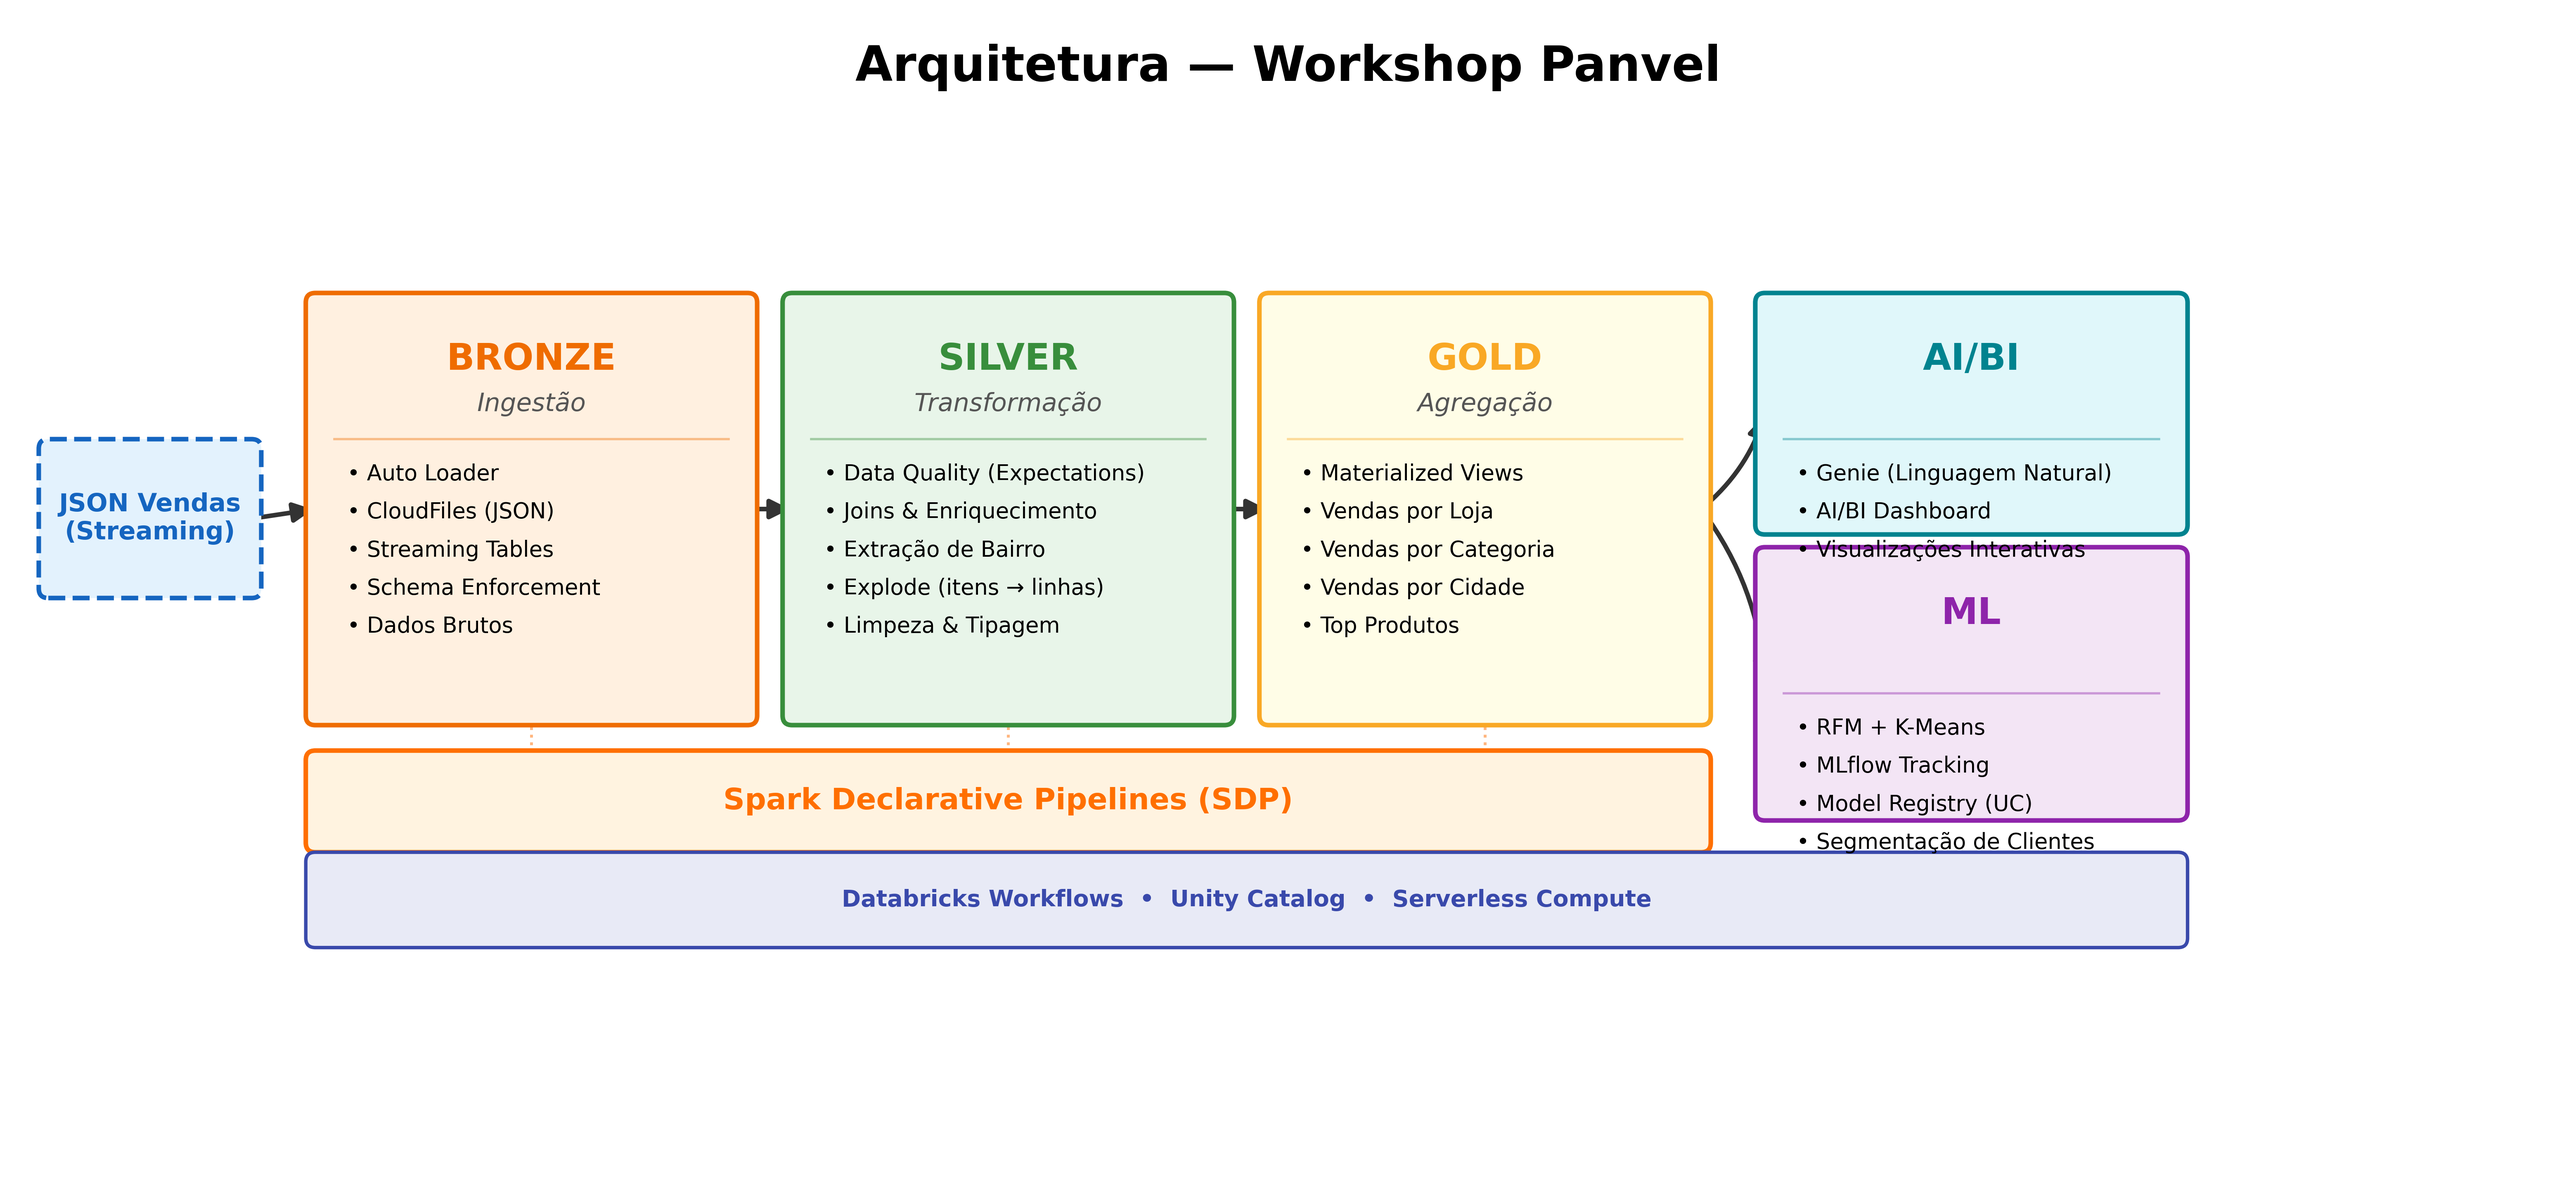
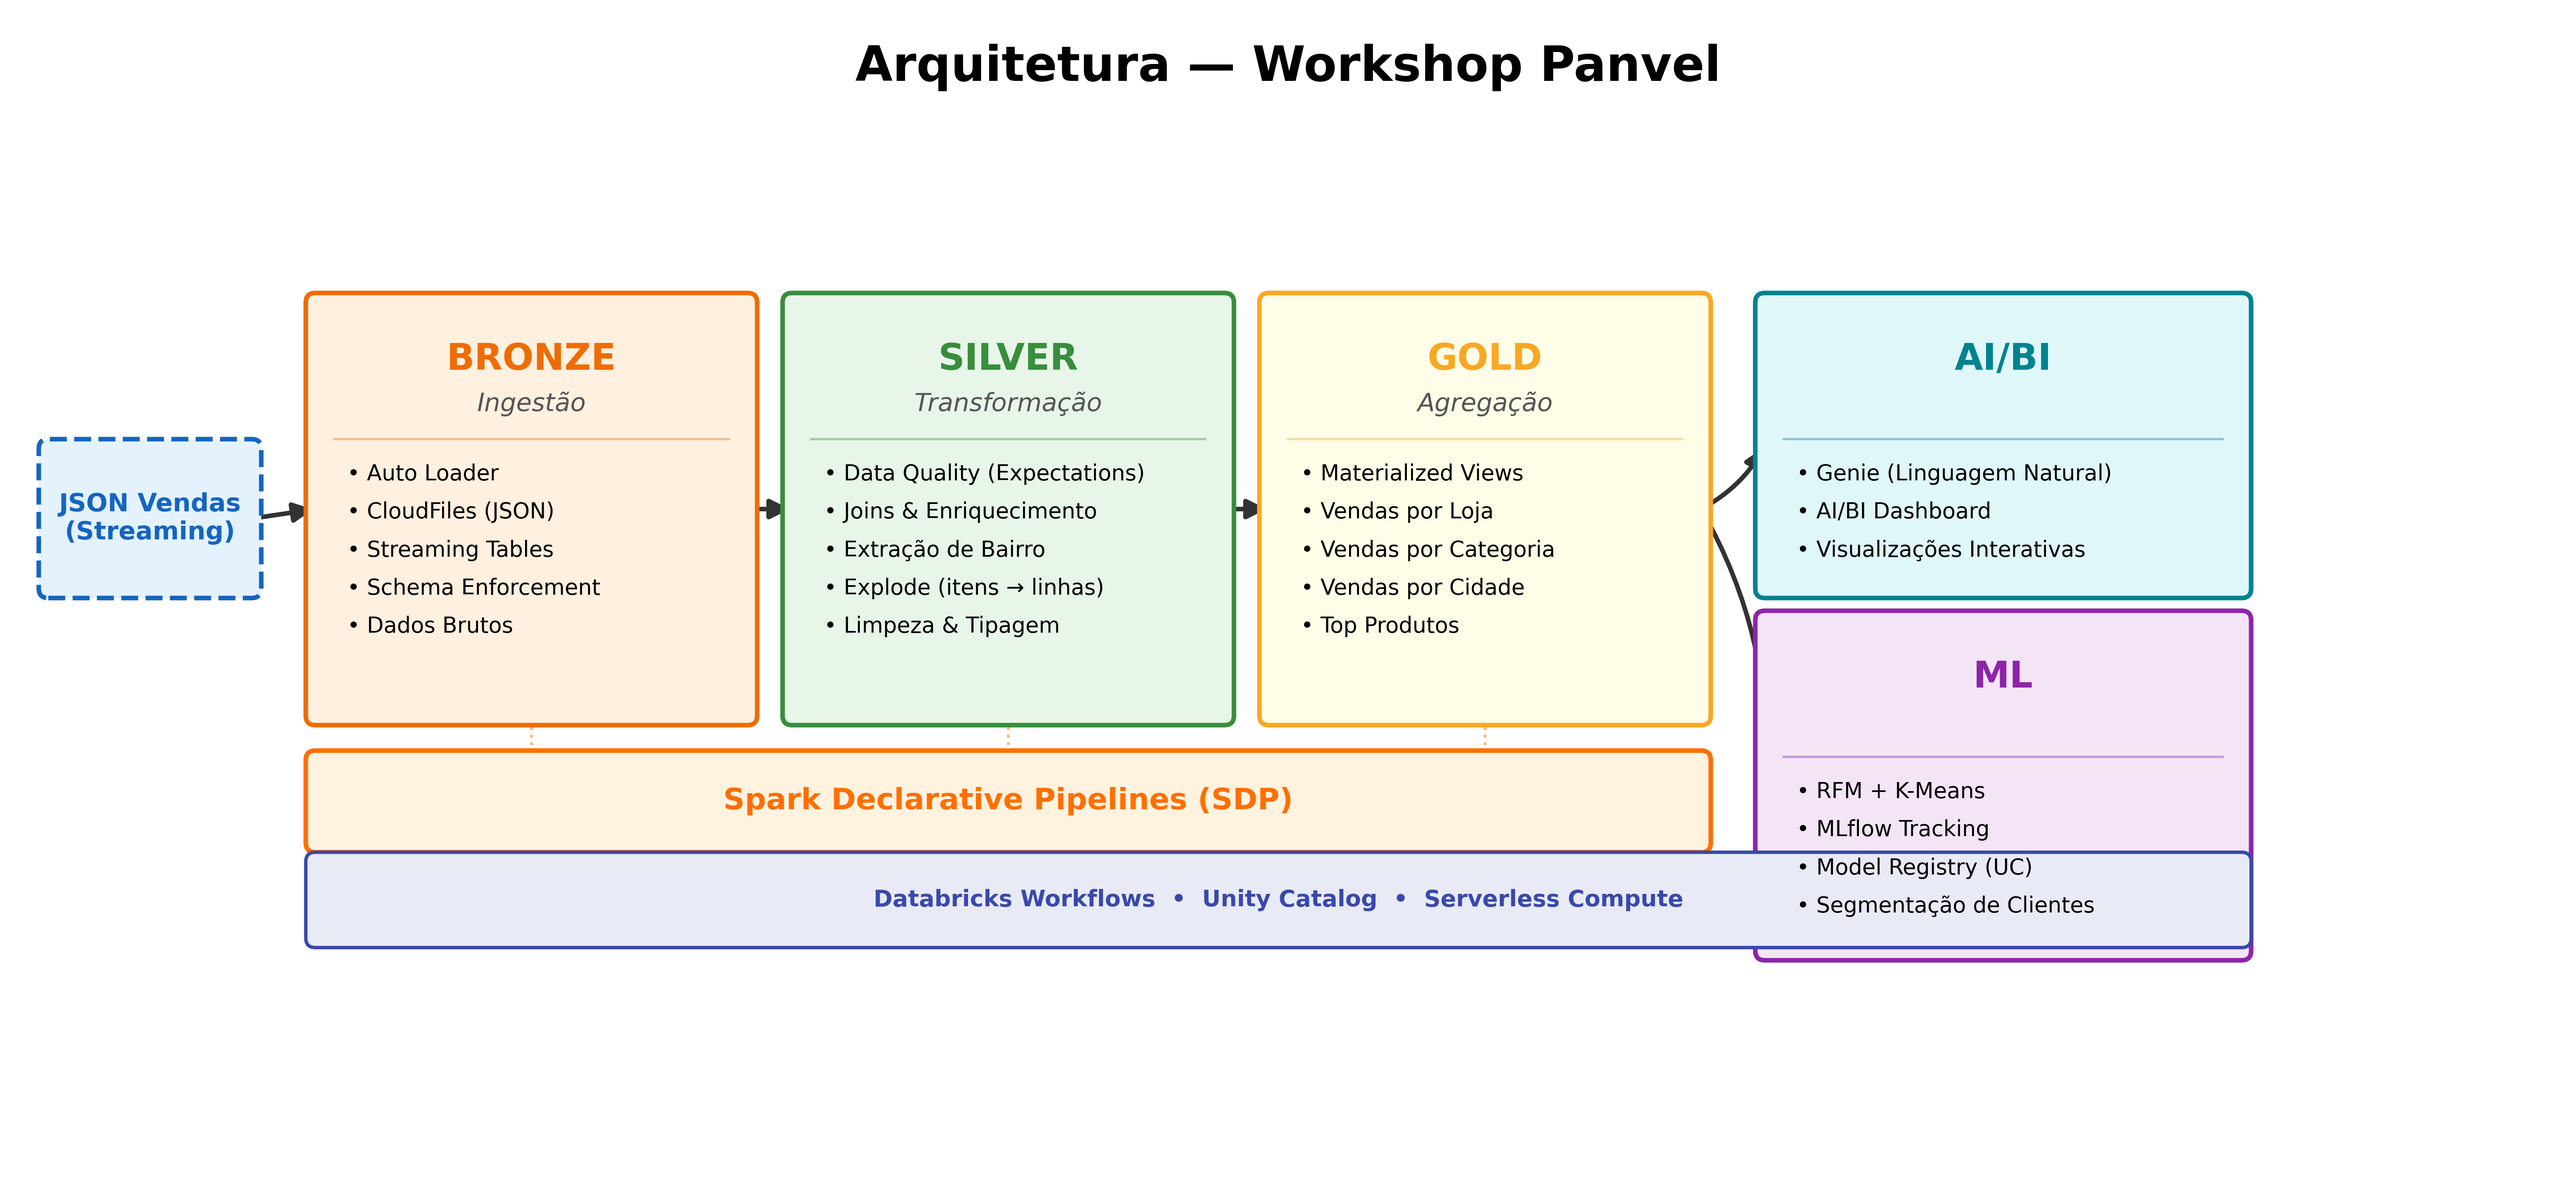
Fix AI/BI and ML boxes: increase height so text fits inside

diff --git a/images/generate_arch.py b/images/generate_arch.py
@@ -99,17 +99,17 @@ def main():
 
     # Fan-out: AI/BI and ML stacked
     fx = pos["GOLD"][0] + pos["GOLD"][2] + 1.0
-    fw = 6.5
+    fw = 7.5
 
     # AI/BI
-    fh1 = 3.5
+    fh1 = 4.5
     fy1 = by + bh - fh1
     draw_stage(ax, fx, fy1, fw, fh1, "AI/BI", None, "#E0F7FA", "#00838F",
                ["Genie (Linguagem Natural)", "AI/BI Dashboard",
                 "Visualizações Interativas"])
 
     # ML
-    fh2 = 4.0
+    fh2 = 5.2
     fy2 = fy1 - 0.5 - fh2
     draw_stage(ax, fx, fy2, fw, fh2, "ML", None, "#F3E5F5", "#8E24AA",
                ["RFM + K-Means", "MLflow Tracking",
